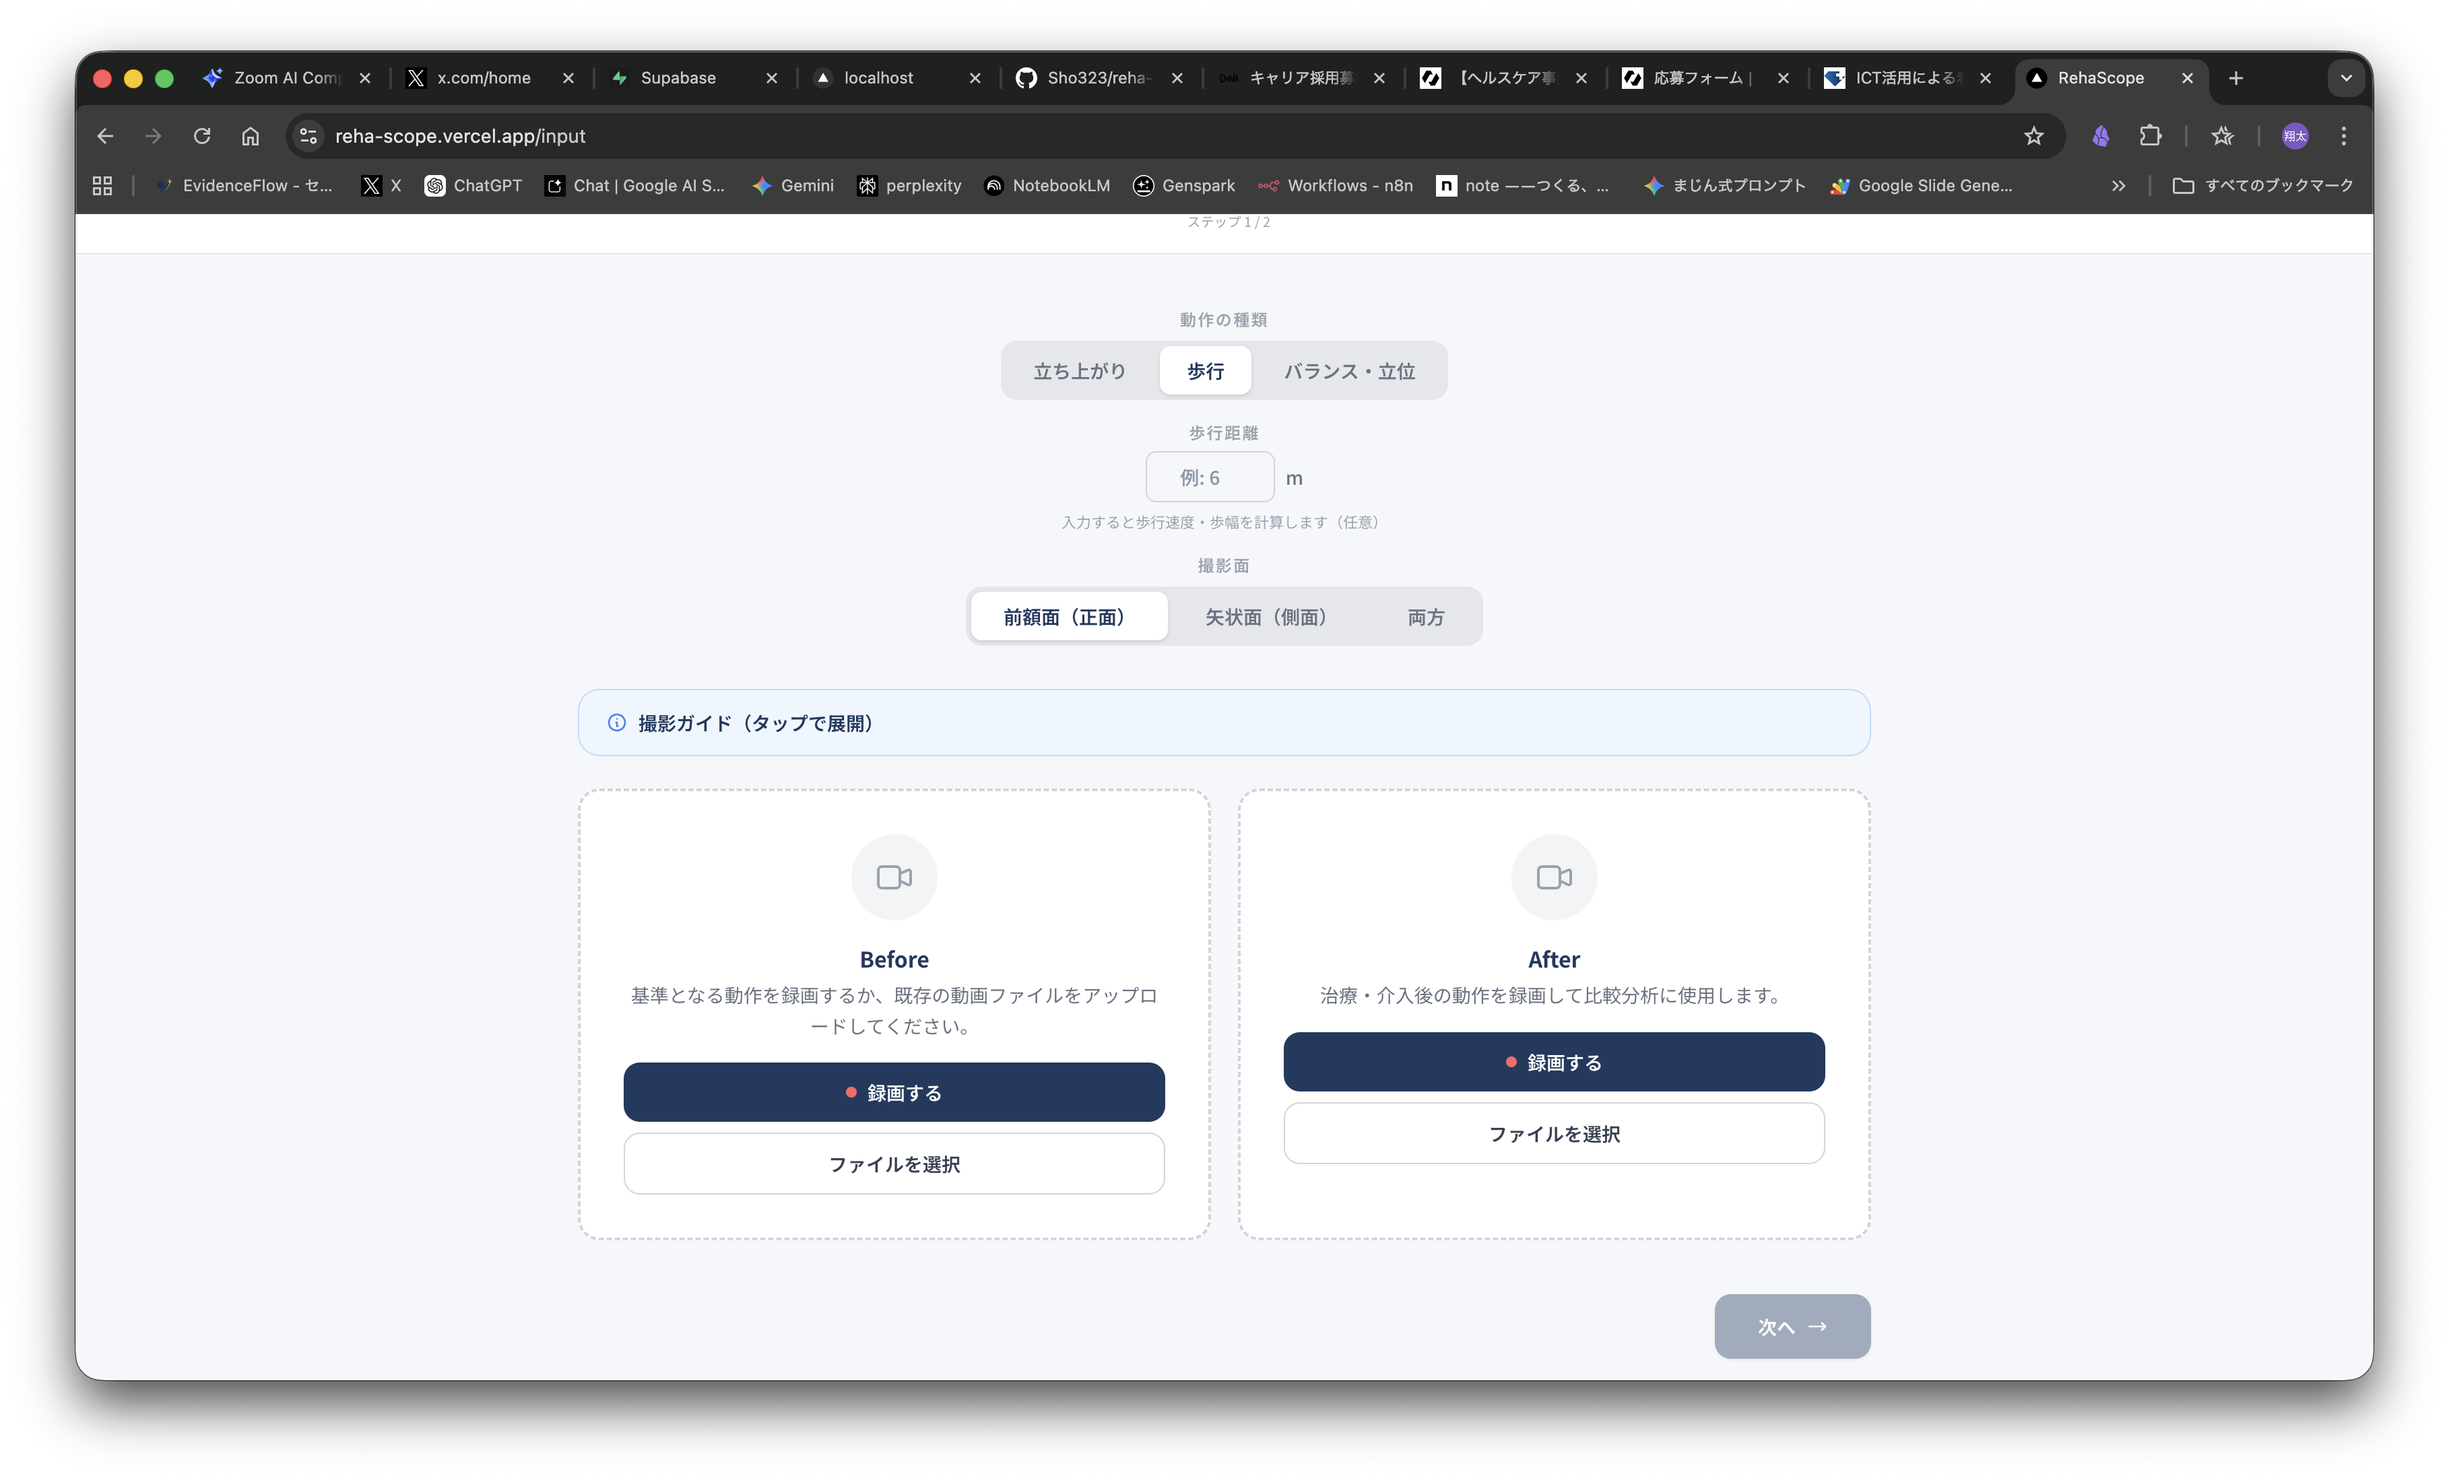
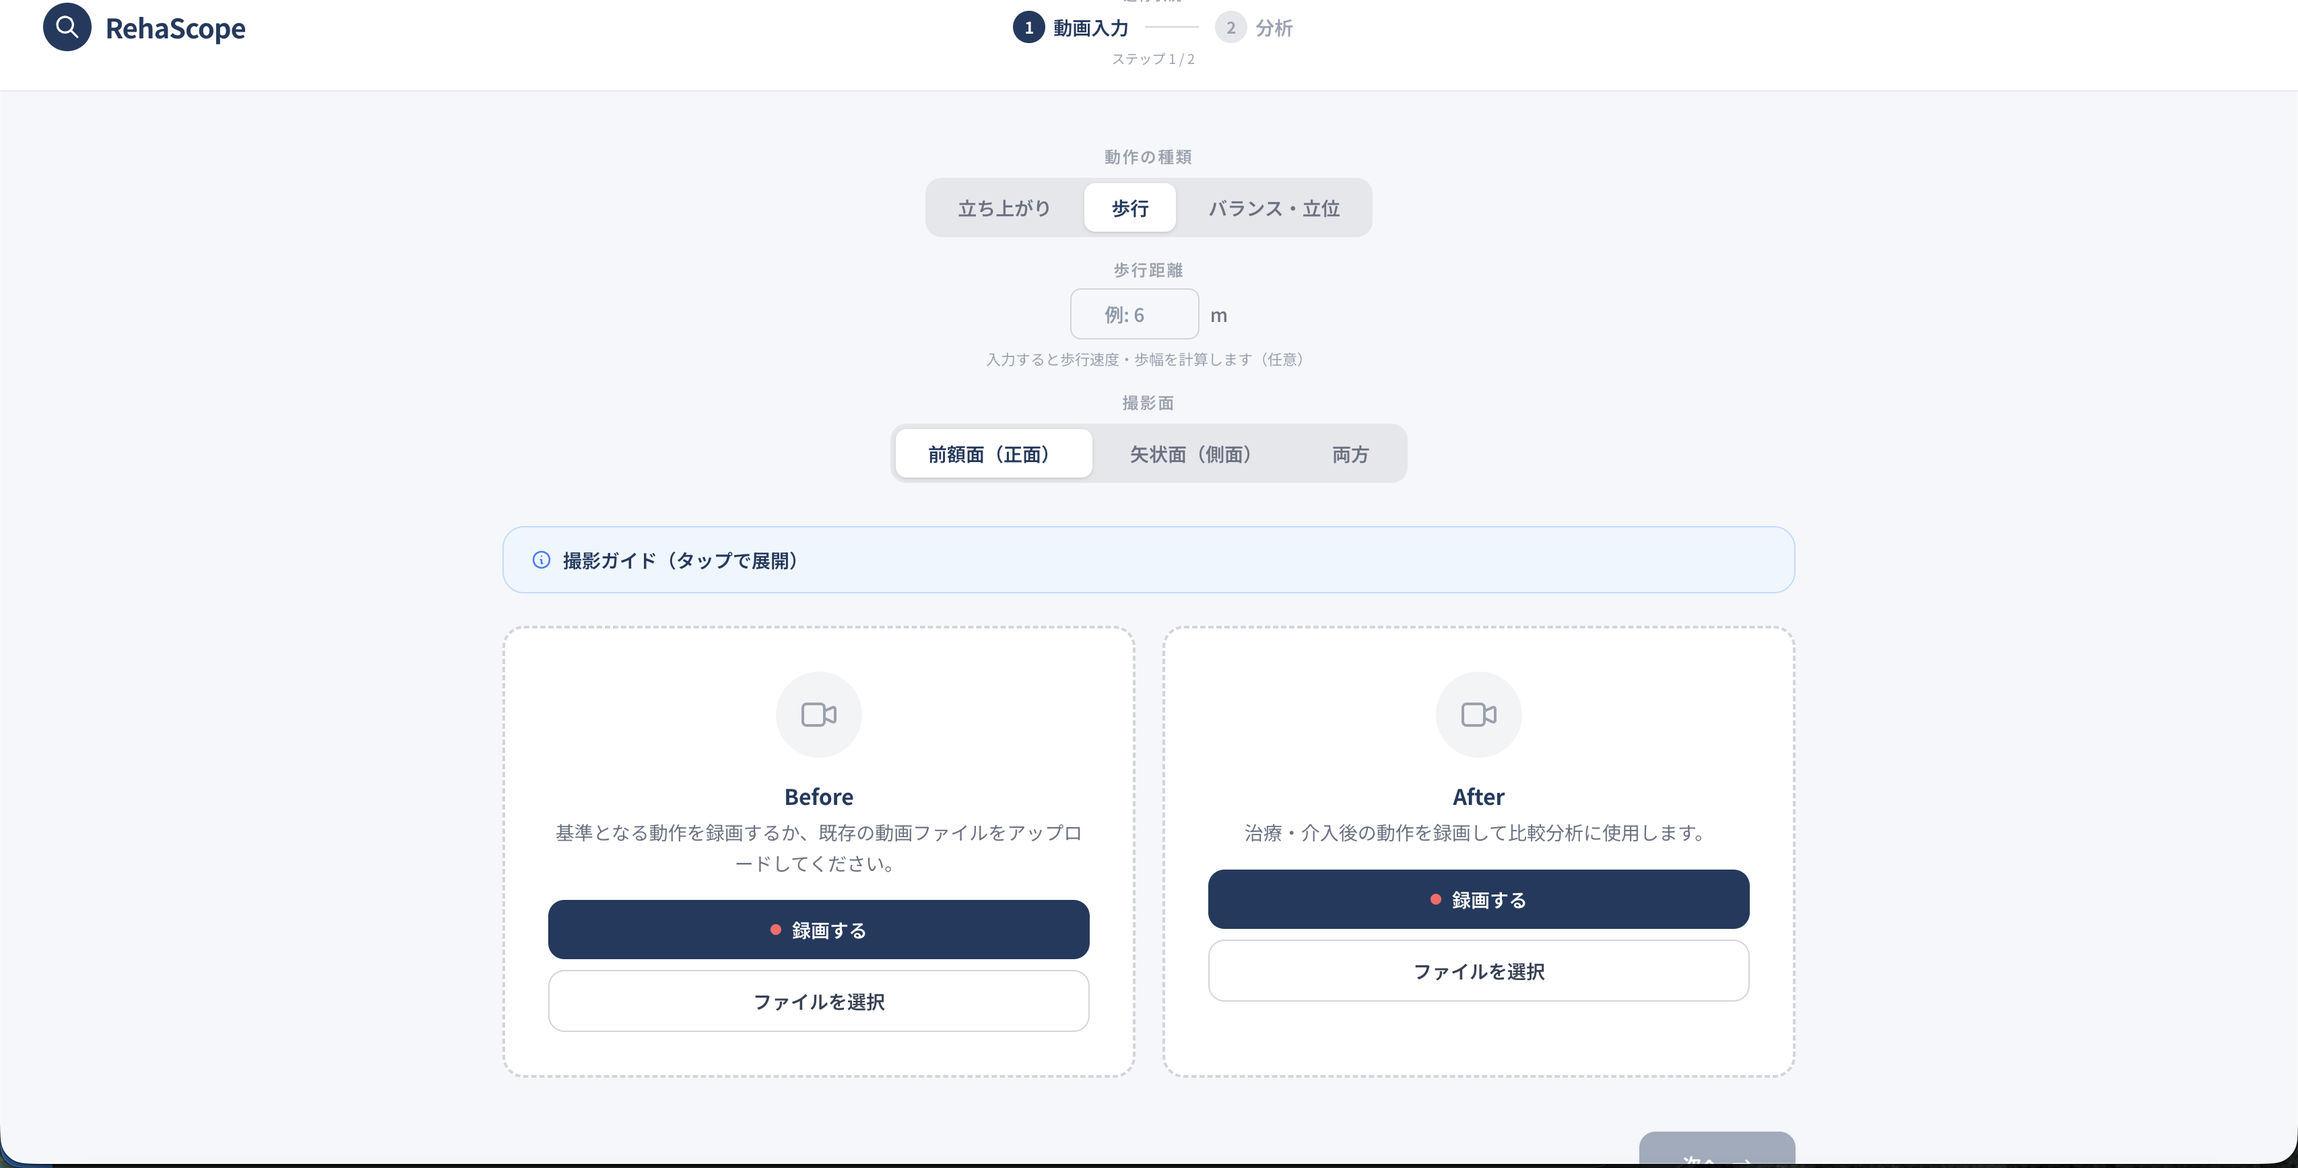
docs: スクリーンショットを3枚に整理・差し替え
グラフ・解析画面・入力画面の実スクショに更新。
室内が映らないクリーンな画像に統一。

diff --git a/README.md b/README.md
@@ -31,8 +31,11 @@
 
 ## スクリーンショット
 
-### 解析画面：関節角度グラフ + 重心変位（Before/After 比較）
-<img src="public/screen_analysis.png" width="800" alt="解析画面 - 股関節屈曲角・重心上下変位のBefore/After比較グラフ">
+### 関節角度グラフ：Before/After 数値比較
+<img src="public/screen_graph.png" width="800" alt="股関節屈曲角・重心上下変位のBefore/After比較グラフ">
+
+### 解析画面：骨格オーバーレイ動画 + グラフ
+<img src="public/screen_analysis_full.png" width="800" alt="解析画面 - 骨格検出動画と関節角度グラフの同時表示">
 
 ### 動画入力：治療前後の撮影・アップロード
 <img src="public/screen_input.png" width="800" alt="動画入力画面 - 動作種類・撮影面・Before/After の指定">
